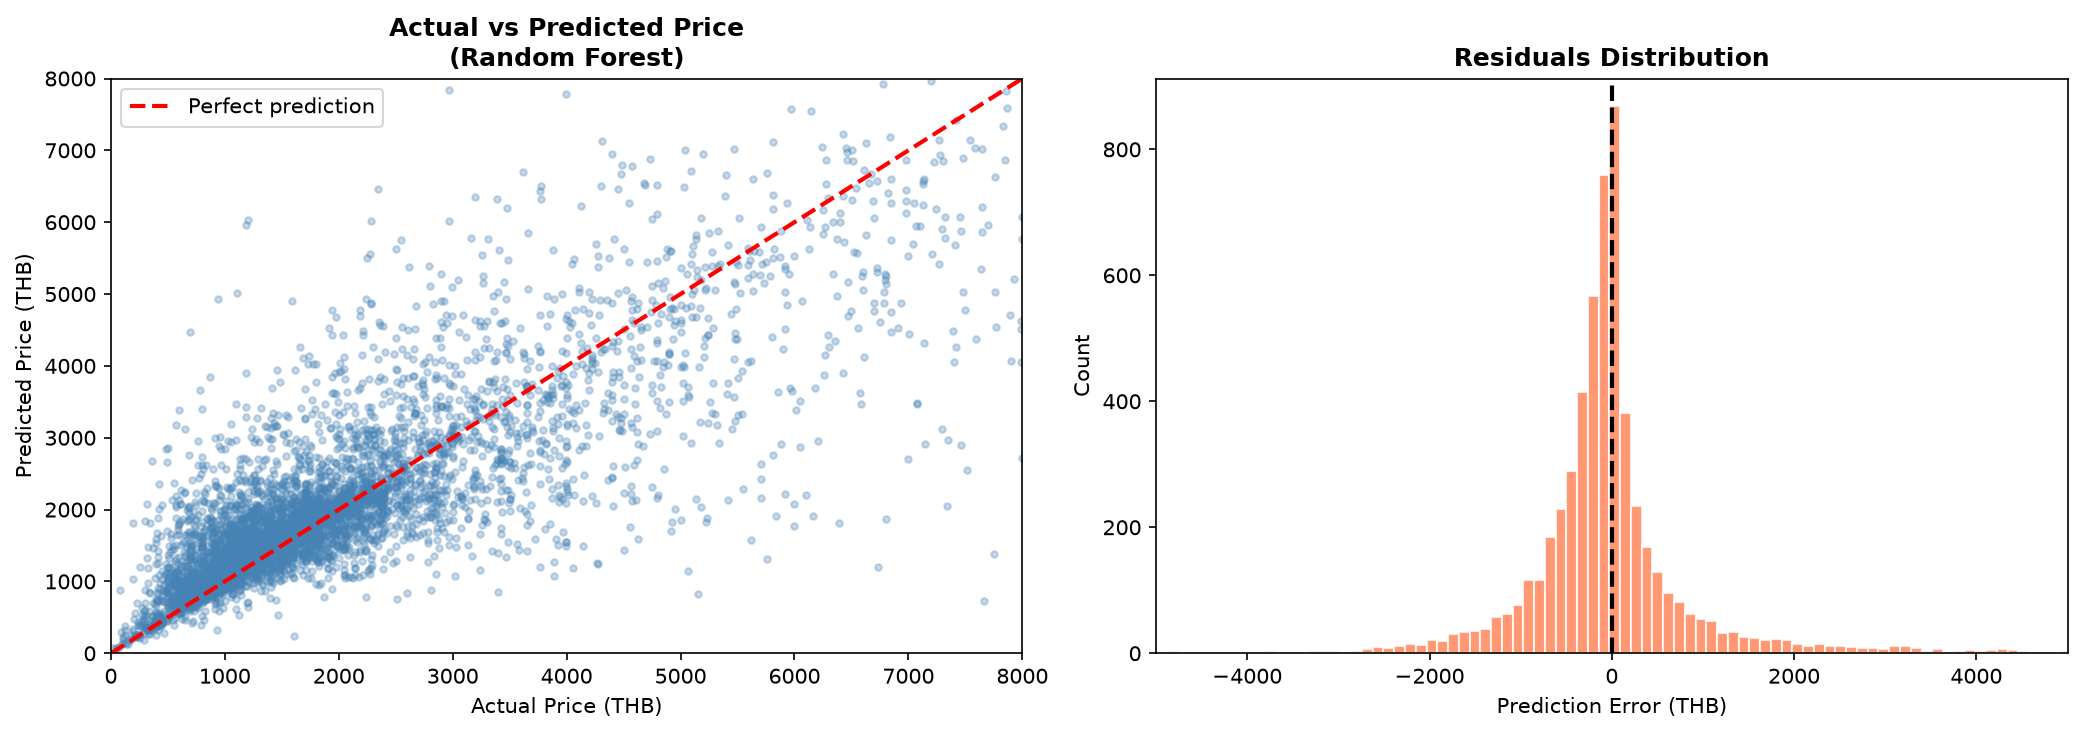
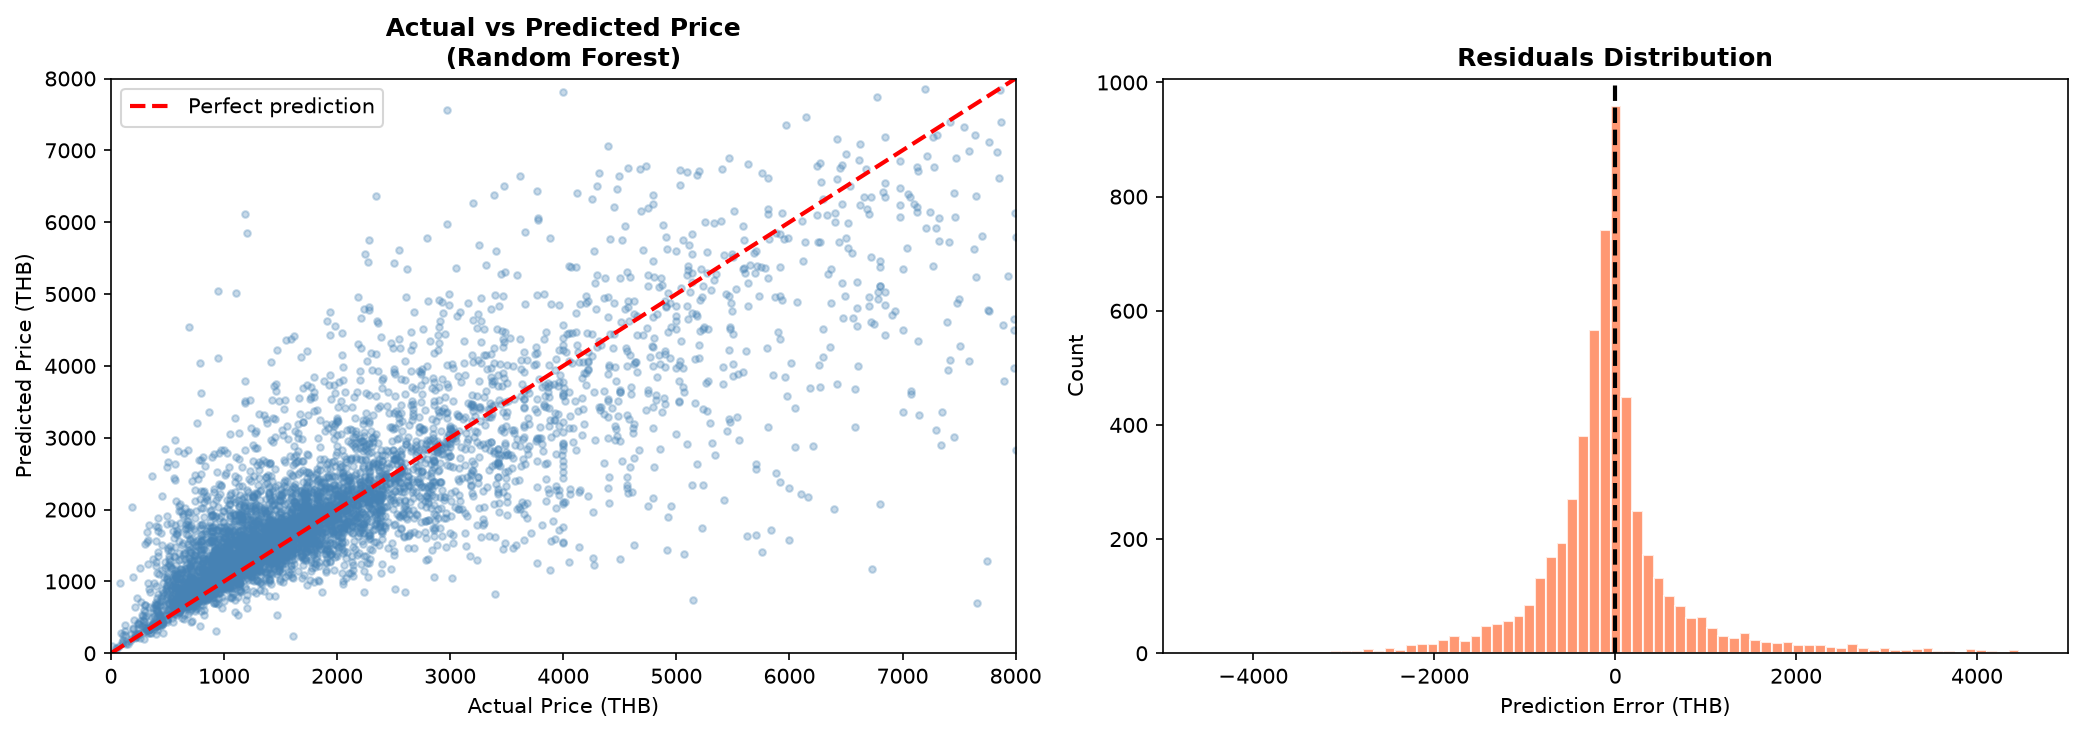
Update charts, notebook, and add README

diff --git a/README .md b/README .md
@@ -1,0 +1,104 @@
+# Data Engineer Intern Assignment — Bangkok Airbnb Market Intelligence
+
+**Candidate:** Ishini Ellewela
+**Role Applied For:** Data Engineer Intern
+**Company:** Expernetic (Pvt) Ltd
+**Dataset:** [Inside Airbnb](https://insideairbnb.com/) — Bangkok, Thailand (listings, calendar, reviews, neighbourhoods)
+
+---
+
+## 📄 Start Here
+
+The full write-up — findings, methodology, engineering decisions, business recommendations, and an honest account of what was and wasn't completed — is in:
+
+➡️ **[`Expernetic_Report.pdf`](./Expernetic_Report.pdf)**
+
+Read the report first. It explains the reasoning behind every notebook below.
+
+---
+
+## 📁 Repository Structure
+
+```
+.
+├── README.md                                   ← you are here
+├── Expernetic_Report.pdf                       ← full report (start here)
+├── 01_section2_dataset_familiarization_ipynb.ipynb
+├── 02_section3_data_engineering_ipynb.ipynb
+├── 03_section4_eda.ipynb
+├── 04_section6_price_prediction_ipynb.ipynb
+└── data/                                        ← not included, see "Data Setup" below
+```
+
+## 📓 Notebooks — What Each One Does and In What Order to Review Them
+
+| Order | Notebook | Assignment Section | What It Covers |
+|---|---|---|---|
+| 1 | `01_section2_dataset_familiarization_ipynb.ipynb` | §2 – Dataset Familiarization | Loads all four source files, profiles schema (columns, types, missing %), documents file relationships and dataset limitations. |
+| 2 | `02_section3_data_engineering_ipynb.ipynb` | §3.1–3.3 – Data Engineering | Ingestion, profiling, cleaning/standardization (price, dates, booleans), enrichment/joining into `enriched_listings.csv`, data quality checks, and a SQLite analytical layer (5 SQL queries). |
+| 3 | `03_section4_eda.ipynb` | §4 – Exploratory Data Analysis | Price distributions, geographic/neighbourhood analysis, review scores & host concentration, availability/occupancy, and temporal trends (2015–2026). |
+| 4 | `04_section6_price_prediction_ipynb.ipynb` | §6.1 – Price Prediction | Feature engineering, comparison of Linear Regression / Random Forest / Gradient Boosting, feature importance, and residual analysis. |
+
+## ⚠️ Scope Note
+
+Per the assignment's own design philosophy ("a candidate who completes two sections with exceptional depth... will outperform one who attempts all sections superficially"), this submission prioritizes **depth on Sections 2, 3 (core), 4, and 6.1** over breadth across every optional section.
+
+**Not attempted:** §3.4–3.6 (dimensional modelling, pipeline automation, cloud-native topics), §5 (formal hypothesis testing), §6.2–6.4 (forecasting, clustering, bias testing), §7 (NLP/LLM/agentic work), §8 (Open Innovation Challenge).
+
+Full rationale, trade-offs, and a concrete plan for completing the remaining sections are in **Sections 13–15 of the report.**
+
+## 🛠️ Setup & Reproducibility
+
+### Requirements
+```
+Python 3.10+
+pandas
+numpy
+matplotlib
+seaborn
+scikit-learn
+sqlite3 (standard library — no install needed)
+```
+
+Install dependencies:
+```bash
+pip install pandas numpy matplotlib seaborn scikit-learn
+```
+
+### Data Setup
+
+Raw data is **not included** in this repo (per Inside Airbnb's terms and to keep the repo lightweight). To reproduce:
+
+1. Download the Bangkok dataset from [insideairbnb.com/get-the-data](https://insideairbnb.com/get-the-data/):
+   - `listings.csv.gz`
+   - `calendar.csv.gz`
+   - `reviews.csv.gz`
+   - `neighbourhoods.csv`
+2. Place all four files in a local `data/` folder.
+3. Update the `data_path` variable at the top of each notebook to point to that folder.
+
+### Execution Order
+
+Run the notebooks in the order listed in the table above — `02_section3_data_engineering_ipynb.ipynb` produces `enriched_listings.csv`, which downstream analysis references.
+
+```bash
+jupyter notebook
+```
+or, if the `jupyter` command isn't on your PATH:
+```bash
+python -m notebook
+```
+
+## 🤖 AI Usage Disclosure
+
+Full disclosure of AI tool usage (what was used, which sections were AI-assisted, and how outputs were validated) is in **Appendix A of the report**, per Section 10.1 of the assignment brief.
+
+## 📊 Headline Findings
+
+- **28,204** cleaned listings analyzed (from 31,069 raw)
+- Median nightly price: **฿1,549** (mean ฿2,031 — right-skewed)
+- Estimated market-wide occupancy: **~1.6%**, suggesting a large share of dormant/"ghost" listings
+- Best price-prediction model: **Random Forest**, R² = **0.664**, MAE = **฿551**
+- Superhosts (35.6% of listings) command a measurable price premium and materially higher review volume/scores
+
+See the report's Executive Summary for the full list.